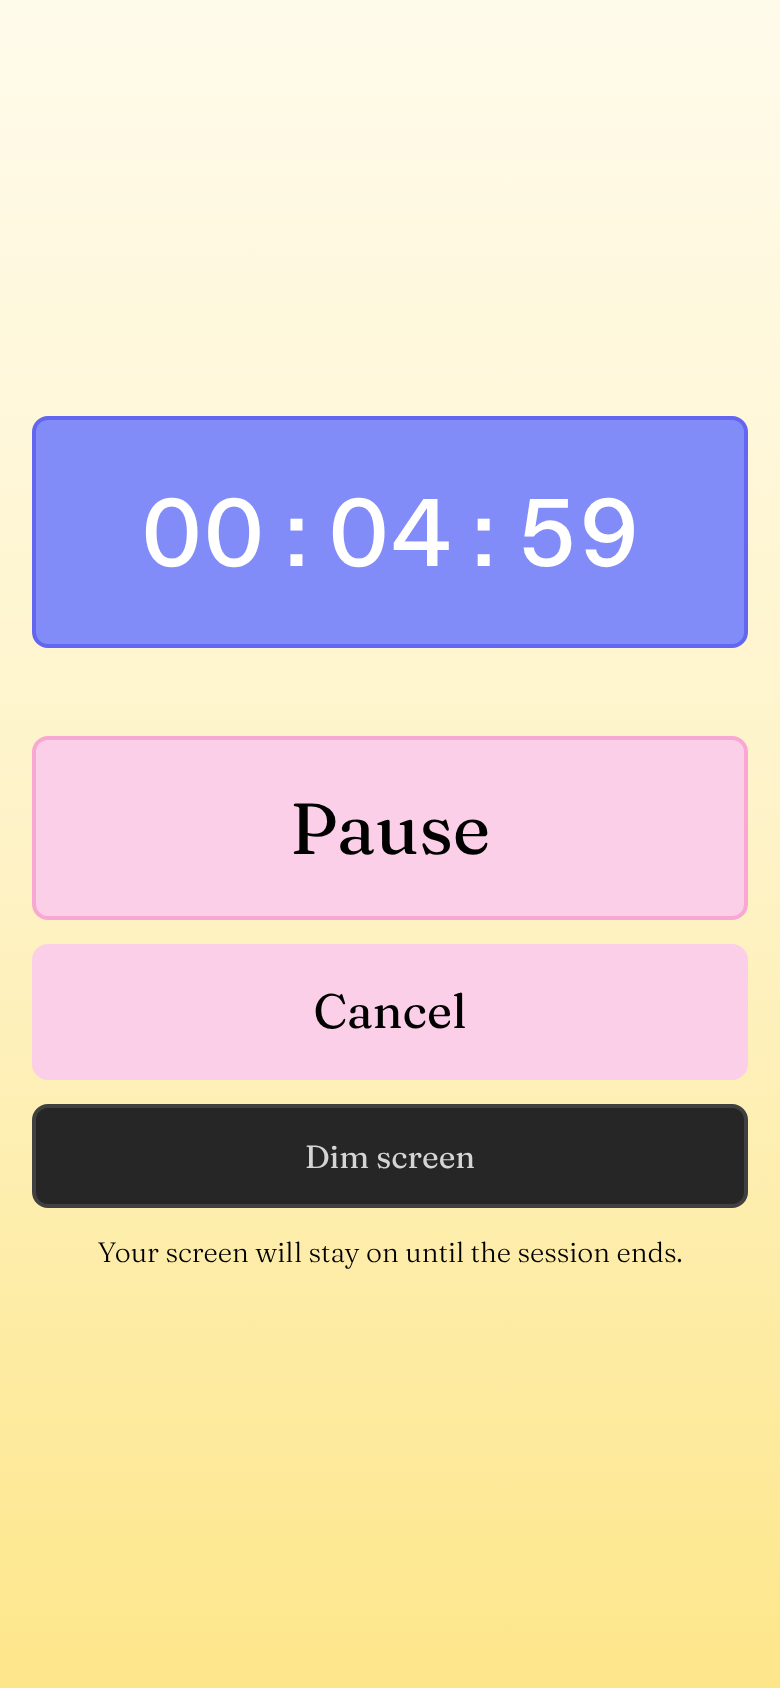
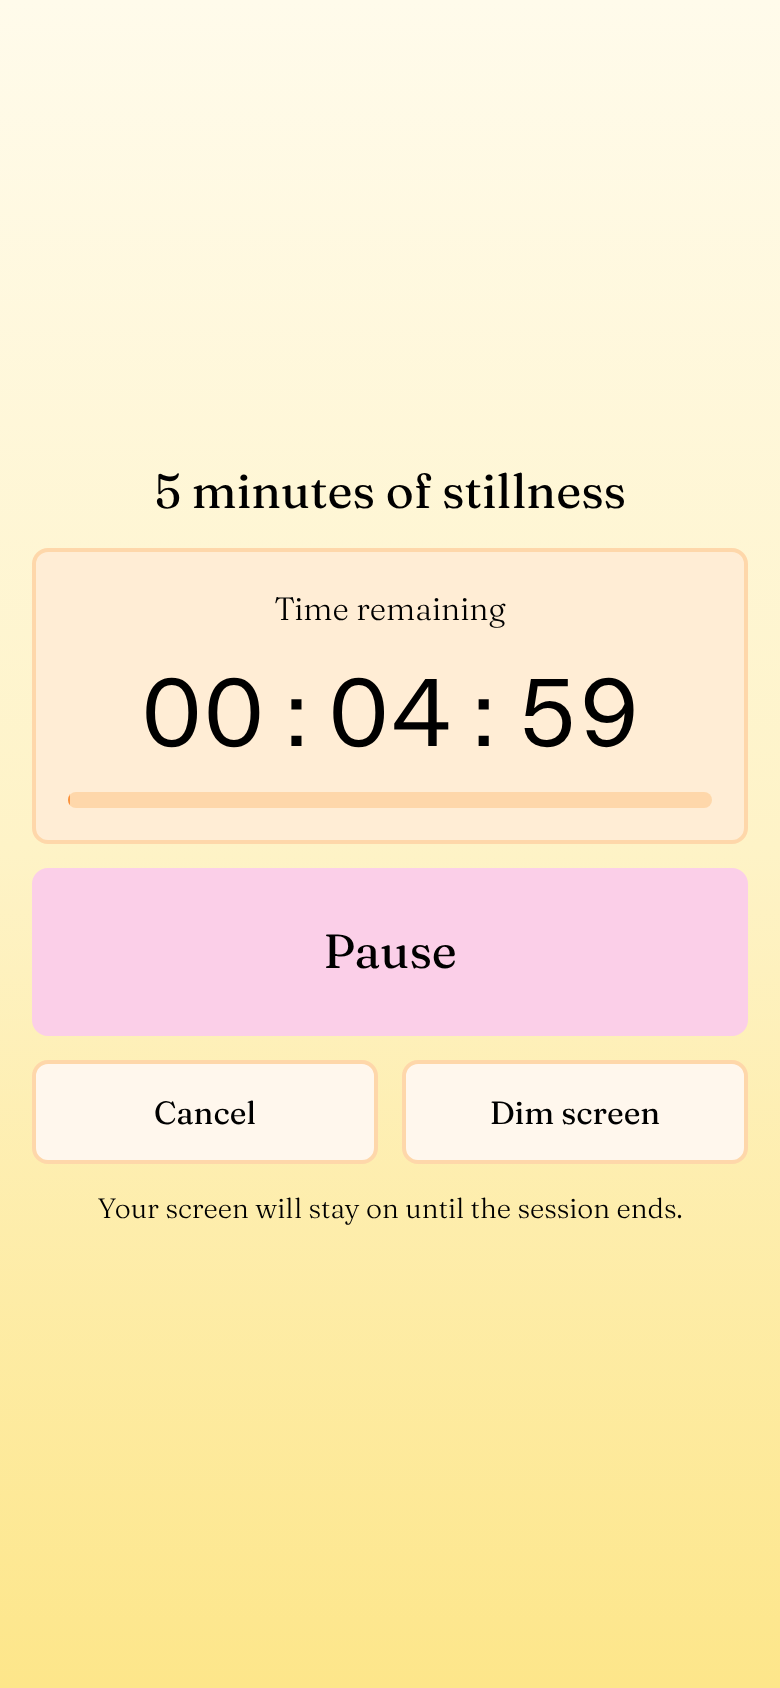
Restyle the timer screen to match home and settings
- Title plus an orange card holding the countdown, its status line and a
  progress bar that uses the volume sliders' track and fill colors.
- Pause/Resume as the large primary button: pink stopButton (new shared
  style) or the Start emerald; Cancel and Dim screen as soft orange buttons.
- Paused state dims the digits instead of changing layout.

Claude-Session: https://claude.ai/code/session_01FyS6UfNmQEcDuBKgYkpFCh

diff --git a/app/ui/meditations.tsx b/app/ui/meditations.tsx
@@ -2,6 +2,7 @@ import React from 'react'
 import { useState, useEffect, useRef } from 'react';
 import { showNotification, useWakeLock } from '@/app/ui/pwa';
 import { azeretMono } from '@/app/fonts';
+import { card, softButton, startButton, stopButton } from '@/app/ui/styles';
 
 export const JOURNEY_KEY = 'journey';
 
@@ -152,49 +153,66 @@ export function Timer({ toggleTimer }: TimerProps) {
     );
   }
 
+  const sessionMinutes = Math.round(seconds / 60);
+  const progress = seconds > 0 ? Math.min(100, (1 - displayTime / seconds) * 100) : 0;
+
   return (
     <div className='flex flex-col gap-3'>
-      <div
-        id='countdown-label'
-        role='timer'
-        aria-label={paused ? 'Timer paused.' : 'Timer counting down.'}
-        className={`${azeretMono.className}
-          py-8 bg-indigo-400 text-white tabular-nums
-          border-2 border-indigo-500 rounded-lg
-          text-center text-5xl`}>
-        {hh}:{mm}:{ss}
-      </div>
-      <p className='h-5 text-sm font-light text-center'>{paused ? 'Paused' : ''}</p>
+      <h1 className='text-center text-2xl'>
+        {sessionMinutes} {sessionMinutes === 1 ? 'minute' : 'minutes'} of stillness
+      </h1>
+
+      <section className={`${card} p-4 flex flex-col items-center gap-4`}>
+        <span className='font-light' aria-live='polite'>
+          {paused ? 'Paused' : 'Time remaining'}
+        </span>
+        <div
+          id='countdown-label'
+          role='timer'
+          aria-label={paused ? 'Timer paused.' : 'Timer counting down.'}
+          className={`${azeretMono.className} text-5xl font-light tabular-nums
+            ${paused ? 'opacity-50' : ''} transition-opacity`}>
+          {hh}:{mm}:{ss}
+        </div>
+        {/* Same track and fill colors as the volume sliders. */}
+        <div
+          className='w-full h-2 rounded-full bg-orange-200 overflow-hidden'
+          role='progressbar'
+          aria-label='Session progress'
+          aria-valuemin={0}
+          aria-valuemax={100}
+          aria-valuenow={Math.round(progress)}
+        >
+          <div
+            className='h-full rounded-full bg-orange-400 transition-[width] duration-300'
+            style={{ width: `${progress}%` }}
+          />
+        </div>
+      </section>
 
       <button
         type='button'
-        className={`${paused
-          ? 'bg-emerald-100 hover:bg-emerald-200 active:bg-emerald-300 border-emerald-200'
-          : 'bg-pink-200 hover:bg-pink-300 active:bg-pink-400 border-pink-300'}
-          py-6 text-4xl border-2 rounded-lg transition-colors`}
+        className={`${paused ? startButton : stopButton} py-6 text-2xl`}
         onClick={() => setPaused(!paused)}
         aria-label={paused ? 'Resume meditation session.' : 'Pause meditation session.'}
       >{paused ? 'Resume' : 'Pause'}</button>
 
-      <button
-        type='button'
-        className='py-4 text-2xl
-          bg-pink-100 hover:bg-pink-200 active:bg-pink-300 border-2 border-pink-200
-          rounded-lg transition-colors'
-        onClick={() => {
-          setPaused(true)
-          toggleTimer()
-        }}
-      >Cancel</button>
-
-      <button
-        type='button'
-        className='py-3 text-neutral-300
-          bg-neutral-800 hover:bg-neutral-900 active:bg-black
-          border-2 border-neutral-700 rounded-lg transition-colors'
-        onClick={() => setDimmed(true)}
-        aria-label='Dim the screen while the timer keeps running.'
-      >Dim screen</button>
+      <div className='grid grid-cols-2 gap-3'>
+        <button
+          type='button'
+          className={`${softButton} py-3`}
+          onClick={() => {
+            setPaused(true)
+            toggleTimer()
+          }}
+        >Cancel</button>
+        <button
+          type='button'
+          className={`${softButton} py-3`}
+          onClick={() => setDimmed(true)}
+          aria-label='Dim the screen while the timer keeps running.'
+        >Dim screen</button>
+      </div>
 
       <p className='text-sm font-light text-center'>
         {wakeLockSupported

diff --git a/app/ui/styles.ts b/app/ui/styles.ts
@@ -1,6 +1,6 @@
 // Shared class names so every card, button and chip follows the same pattern:
 // warm orange cards on the amber background, emerald for "go", pink for
-// "stop", indigo for the running clock.
+// "stop".
 
 export const card = 'bg-orange-100 border-2 border-orange-200 rounded-lg';
 
@@ -12,6 +12,10 @@ export const softButton =
 export const startButton =
   'bg-emerald-100 hover:bg-emerald-200 active:bg-emerald-300 ' +
   'border-2 border-emerald-200 rounded-lg transition-colors';
+
+export const stopButton =
+  'bg-pink-100 hover:bg-pink-200 active:bg-pink-300 ' +
+  'border-2 border-pink-200 rounded-lg transition-colors';
 
 export const chip = (selected: boolean) =>
   `py-2 rounded-lg border-2 text-sm transition-colors ${selected
